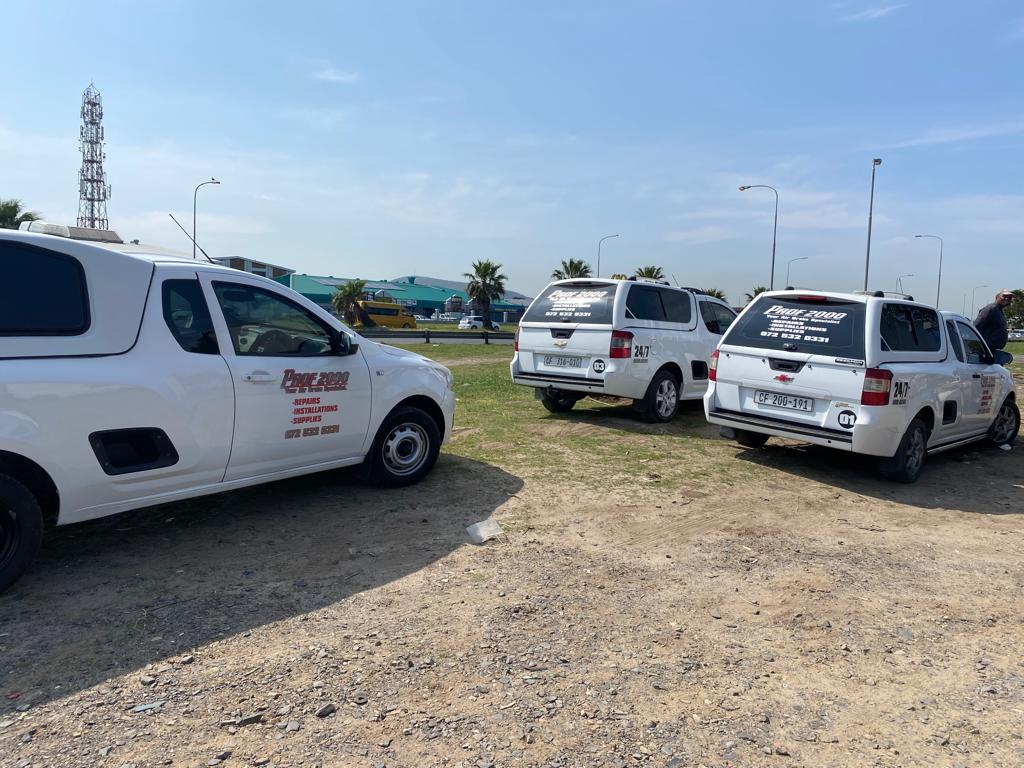
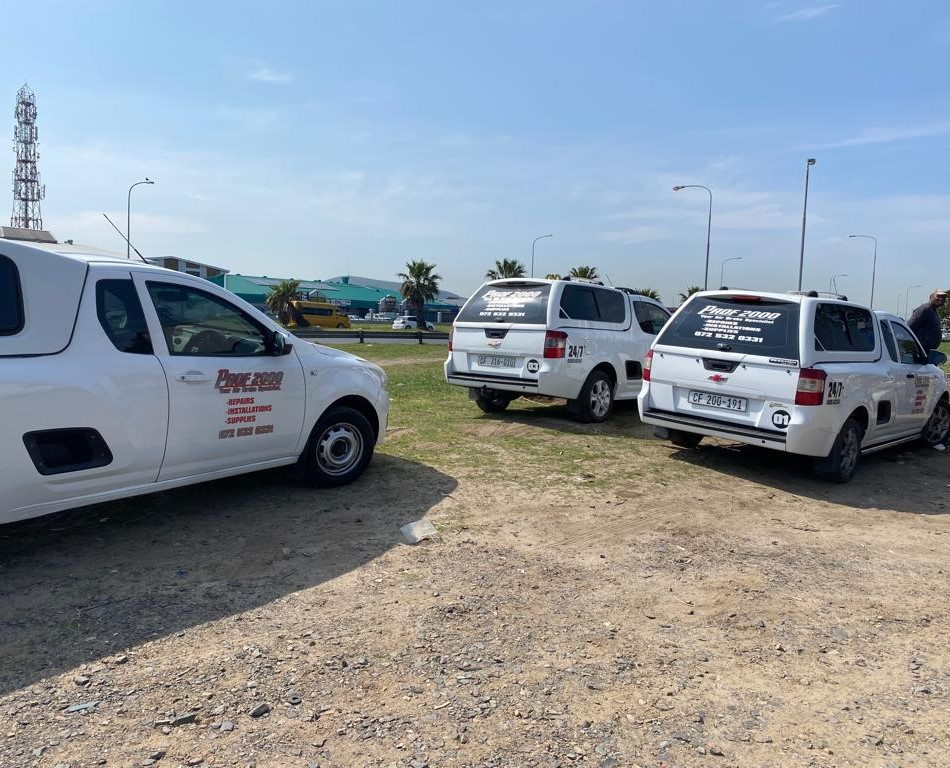
CSS, Info, Pics

diff --git a/HomePage.html b/HomePage.html
@@ -25,8 +25,8 @@
     <body>
 <div class="decription">
     <h1><center>WE GO THE DISTANCE</center></h1>
-    <h2><center>Lorem ipsum dolor sit amet consectetur adipisicing elit. Ipsam ab aspernatur quisquam facilis dicta necessitatibus iure consectetur neque ipsum sequi natus ipsa adipisci cupiditate labore molestias at, minus veniam cumque.
-        Lorem ipsum dolor sit amet consectetur adipisicing elit. Officia mollitia odit enim sint, iste praesentium vitae eius exercitationem incidunt earum aut dicta nobis dolorem? Laboriosam pariatur fugiat sapiente neque nesciunt!
+    <h2><center>We offer advanced troubleshooting and diagnoses to find the issues on your vehicle. We supply all types of airbrake components at affordable prices.
+        We respond when you are in an emergency or any airbrake breakdown situation. All it takes is one call and you have our attention with rapid response.
     </center></h2>
 </div>
 
@@ -36,11 +36,21 @@
     <button class="button AboutUs">About Us</button>
     <button class="button ContactUs">Contact Us</button>
 
-    <div class="Display_Section" style="max-width: 800px; position: relative;">
-        <img class="Prof2000_pics" src="Pics/Collage1.jpg" style="width: 100%">
-        <img class="Prof2000_pics" src="Pics/Collage2.jpg" style="width: 100%">
-        <img class="Prof2000_pics" src="Pics/Collage3.jpg" style="width: 100%">
-        <img class="Prof2000_pics" src="Pics/Collage4.jpg" style="width: 100%">
+    <div class="Display_Section" style="max-width: 950px; position: relative;">
+        <img class="Prof2000_pics" src="Pics/Collage1.jpg" style="width: 768px; height: 767px">
+        <img class="Prof2000_pics" src="Pics/Collage2.jpg" style="width: 100%; height: 767px">
+        <img class="Prof2000_pics" src="Pics/Collage3.jpg" style="width: 100%; height: 767px">
+        <img class="Prof2000_pics" src="Pics/Collage4.jpg" style="width: 768px; height: 767px">
+        <img class="Prof2000_pics" src="Pics/Collage5.jpg" style="width: 100%; height: 767px">
+        <img class="Prof2000_pics" src="Pics/Collage6.jpg" style="width: 100%; height: 767px">
+        <img class="Prof2000_pics" src="Pics/Collage7.jpg" style="width: 100%; height: 767px">
+        <img class="Prof2000_pics" src="Pics/Collage8.jpg" style="width: 100%; height: 767px">
+        <img class="Prof2000_pics" src="Pics/Collage9.jpg" style="width: 100%; height: 767px">
+        <img class="Prof2000_pics" src="Pics/Collage10.jpg" style="width: 768px; height: 767px">
+        <img class="Prof2000_pics" src="Pics/Collage11.jpg" style="width: 100%; height: 767px">
+        <img class="Prof2000_pics" src="Pics/Collage12.jpg" style="width: 100%; height: 767px">
+        <img class="Prof2000_pics" src="Pics/Collage13.jpg" style="width: 100%; height: 767px">
+
       
         <button class="Pic_button display-left" onclick="plusDivs(-1)">&#10094;</button>
         <button class="Pic_button display-right" onclick="plusDivs(1)">&#10095;</button>

diff --git a/Styles/HomePage.css b/Styles/HomePage.css
@@ -156,9 +156,83 @@ body {
   font-size: 14px;
 }
 
-/* Media query for screens smaller than 600px (typical mobile devices) */
-@media (max-width: 600px) {
+@media (max-width: 950px) {
+  
+  .navbar a {
+    font-size: 20px;
+  }
+
+  .navbar {
+    padding: 10px;
+  }
+
+  .left {
+    margin-right: 10px;
+  }
+
+  .description h1, .description h2 {
+    text-align: left;
+  }
+
+  .button {
+    width: 100%;
+    font-size: large;
+    margin: 4px 0;
+  }
+
+  .Display_Section {
+    max-width: 100%;
+  }
+
+  .Pic_button.display-left, .Pic_button.display-right {
+    font-size: 20px;
+    padding: 5px 10px;
+  }
+
   .footer-grid {
-      grid-template-columns: 1fr; /* Display a single column on smaller screens */
+    grid-template-columns: 1fr;
+  }
+}
+
+
+@media (max-width: 820px) {
+
+  .navbar a {
+    font-size: 18px;
+    padding: 8px;
+  }
+
+  .navbar {
+    padding: 8px;
+  }
+
+  .left {
+    font-size: 16px;
+    margin-right: 8px;
+  }
+
+  .description h1, .description h2 {
+    text-align: left;
+  }
+
+  .button {
+    width: 45%; 
+    font-size: medium; 
+    margin: 4px;
+    display: inline-block;
+  }
+
+  .Display_Section {
+    max-width: 100%;
+  }
+
+  .Pic_button.display-left,
+  .Pic_button.display-right {
+    font-size: 18px;
+    padding: 5px 8px;
+  }
+  
+  .footer-grid {
+    grid-template-columns: 1fr;
   }
 }
